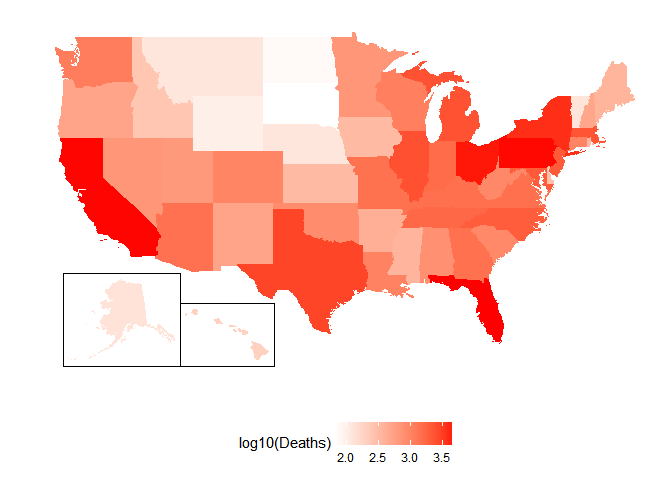
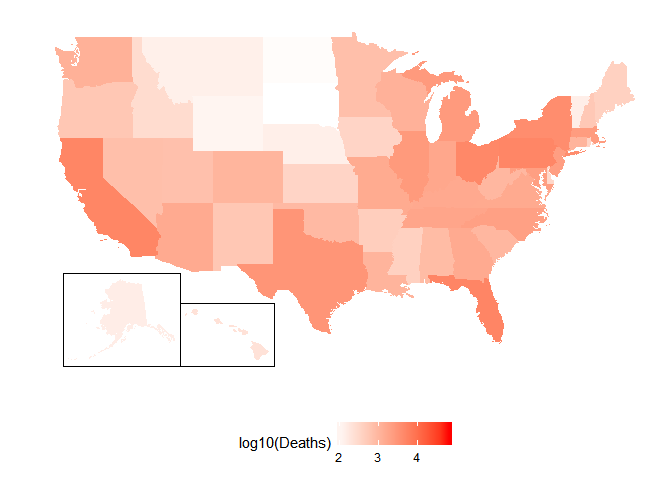
Added US Total

Changed region(s): [[0.0625, 0.0625, 0.9375, 0.7188], [0.5, 0.875, 0.6875, 0.9688]]

diff --git a/Days_of_Code.md b/Days_of_Code.md
@@ -231,8 +231,6 @@ Latitudeo and Longitude Coordinates for each state were downloaded from
 
 ![](Days_of_Code_files/figure-markdown_strict/plottexas-1.png)![](Days_of_Code_files/figure-markdown_strict/plottexas-2.png)
 
-    ## Adding missing grouping variables: `Year`
-
 <table>
 <caption>Deaths attributed to opiods in the United State</caption>
 <thead>
@@ -245,92 +243,92 @@ Latitudeo and Longitude Coordinates for each state were downloaded from
 <tbody>
 <tr class="odd">
 <td align="left">2016</td>
-<td align="right">63,522</td>
+<td align="right">127,044</td>
 <td align="right">21.4314389</td>
 </tr>
 <tr class="even">
 <td align="left">2015</td>
-<td align="right">52,311</td>
+<td align="right">104,622</td>
 <td align="right">11.3616043</td>
 </tr>
 <tr class="odd">
 <td align="left">2014</td>
-<td align="right">46,974</td>
+<td align="right">93,948</td>
 <td align="right">7.0120284</td>
 </tr>
 <tr class="even">
 <td align="left">2013</td>
-<td align="right">43,896</td>
+<td align="right">87,792</td>
 <td align="right">5.9726715</td>
 </tr>
 <tr class="odd">
 <td align="left">2012</td>
-<td align="right">41,422</td>
+<td align="right">82,844</td>
 <td align="right">0.3926321</td>
 </tr>
 <tr class="even">
 <td align="left">2011</td>
-<td align="right">41,260</td>
+<td align="right">82,520</td>
 <td align="right">7.8213604</td>
 </tr>
 <tr class="odd">
 <td align="left">2010</td>
-<td align="right">38,267</td>
+<td align="right">76,534</td>
 <td align="right">3.6091406</td>
 </tr>
 <tr class="even">
 <td align="left">2009</td>
-<td align="right">36,934</td>
+<td align="right">73,868</td>
 <td align="right">1.5172338</td>
 </tr>
 <tr class="odd">
 <td align="left">2008</td>
-<td align="right">36,382</td>
+<td align="right">72,764</td>
 <td align="right">1.2044841</td>
 </tr>
 <tr class="even">
 <td align="left">2007</td>
-<td align="right">35,949</td>
+<td align="right">71,898</td>
 <td align="right">4.6550218</td>
 </tr>
 <tr class="odd">
 <td align="left">2006</td>
-<td align="right">34,350</td>
+<td align="right">68,700</td>
 <td align="right">15.4389031</td>
 </tr>
 <tr class="even">
 <td align="left">2005</td>
-<td align="right">29,756</td>
+<td align="right">59,512</td>
 <td align="right">8.7891196</td>
 </tr>
 <tr class="odd">
 <td align="left">2004</td>
-<td align="right">27,352</td>
+<td align="right">54,704</td>
 <td align="right">6.2750126</td>
 </tr>
 <tr class="even">
 <td align="left">2003</td>
-<td align="right">25,737</td>
+<td align="right">51,474</td>
 <td align="right">9.6357827</td>
 </tr>
 <tr class="odd">
 <td align="left">2002</td>
-<td align="right">23,475</td>
+<td align="right">46,950</td>
 <td align="right">21.3052914</td>
 </tr>
 <tr class="even">
 <td align="left">2001</td>
-<td align="right">19,352</td>
+<td align="right">38,704</td>
 <td align="right">11.3207547</td>
 </tr>
 <tr class="odd">
 <td align="left">2000</td>
-<td align="right">17,384</td>
+<td align="right">34,768</td>
 <td align="right">3.4207865</td>
 </tr>
 <tr class="even">
 <td align="left">1999</td>
-<td align="right">16,809</td>
+<td align="right">33,618</td>
 <td align="right">NA</td>
 </tr>
 </tbody>
@@ -348,28 +346,28 @@ Latitudeo and Longitude Coordinates for each state were downloaded from
 </thead>
 <tbody>
 <tr class="odd">
+<td align="left">US Aggregated</td>
+<td align="right">63,522</td>
+</tr>
+<tr class="even">
 <td align="left">Florida</td>
 <td align="right">4,724</td>
 </tr>
-<tr class="even">
+<tr class="odd">
 <td align="left">California</td>
 <td align="right">4,649</td>
 </tr>
-<tr class="odd">
+<tr class="even">
 <td align="left">Pennsylvania</td>
 <td align="right">4,609</td>
 </tr>
-<tr class="even">
+<tr class="odd">
 <td align="left">Ohio</td>
 <td align="right">4,318</td>
 </tr>
-<tr class="odd">
+<tr class="even">
 <td align="left">New York</td>
 <td align="right">3,636</td>
-</tr>
-<tr class="even">
-<td align="left">Texas</td>
-<td align="right">2,822</td>
 </tr>
 </tbody>
 </table>
